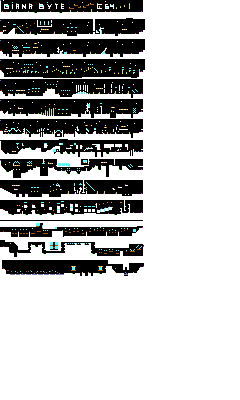
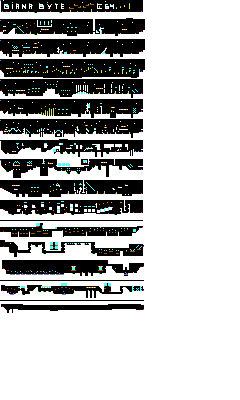
added 14th level, monsters when killed stay on scene

Changed region(s): [[0.0, 0.69, 0.6125, 0.78]]

diff --git a/core/src/com/mdinic/game/giana/MapRenderer.java b/core/src/com/mdinic/game/giana/MapRenderer.java
@@ -63,6 +63,8 @@ public class MapRenderer {
 
     java.util.Map<GoundMonsterType, Animation[]> groundMonsterAnimations = new HashMap<GoundMonsterType, Animation[]>();
 
+    java.util.Map<GoundMonsterType, TextureRegion> deadGroundMonsterAnimations = new HashMap<GoundMonsterType, TextureRegion>();
+
     private BitmapFont font;
 
     int fontSize;
@@ -159,6 +161,7 @@ public class MapRenderer {
         }
         Animation eyeAnimLeft = new Animation(0.3f, eyeRegionLeft);
         Animation eyeAnimRight = new Animation(0.3f, eyeRegionRight);
+
         groundMonsterAnimations.put(GoundMonsterType.EYE, new Animation[] { eyeAnimRight, eyeAnimLeft });
 
         TextureRegion[] wormRegion = new TextureRegion(new Texture(Gdx.files.internal("data/worm.png"))).split(25, 21)[0];
@@ -460,14 +463,13 @@ public class MapRenderer {
             if (animations.length == 0) {
                 throw new IllegalStateException("ground monster type is not supported " + monster.type);
             } else {
-                if (monster.alive) {
-                    int index = 0;
-                    if (monster.type.needsMirror && monster.state == GroundMonster.BACKWARD) {
-                        index = 1;
-                    }
-                    batch.draw(animations[index].getKeyFrame(monster.stateTime, true), monster.pos.x, monster.pos.y, 1,
-                            1);
+                int index = 0;
+                if (monster.type.needsMirror && monster.state == GroundMonster.BACKWARD) {
+                    index = 1;
                 }
+                batch.draw(animations[index].getKeyFrame(monster.stateTime, true), monster.pos.x, monster.pos.y, 1,
+                        monster.alive ? 1 : 0.2f);
+
             }
         }
     }

diff --git a/core/src/com/mdinic/game/giana/screens/GianaSistersScreen.java b/core/src/com/mdinic/game/giana/screens/GianaSistersScreen.java
@@ -9,7 +9,7 @@ public abstract class GianaSistersScreen implements Screen {
     protected final Game game;
 
     public static final int SCREEN_WIDTH = 480;
-    public static final int LEVEL_COUNT = 13;
+    public static final int LEVEL_COUNT = 15;
 
     public GianaSistersScreen(Game game) {
         this.game = game;

diff --git a/core/src/com/mdinic/game/giana/Map.java b/core/src/com/mdinic/game/giana/Map.java
@@ -205,7 +205,9 @@ public class Map {
             water.update(deltaTime);
         }
         for (GroundMonster monster : groundMonsters) {
-            monster.update(deltaTime);
+            if (monster.alive) {
+                monster.update(deltaTime);
+            }
         }
 
         for (Bee bee : bees) {
